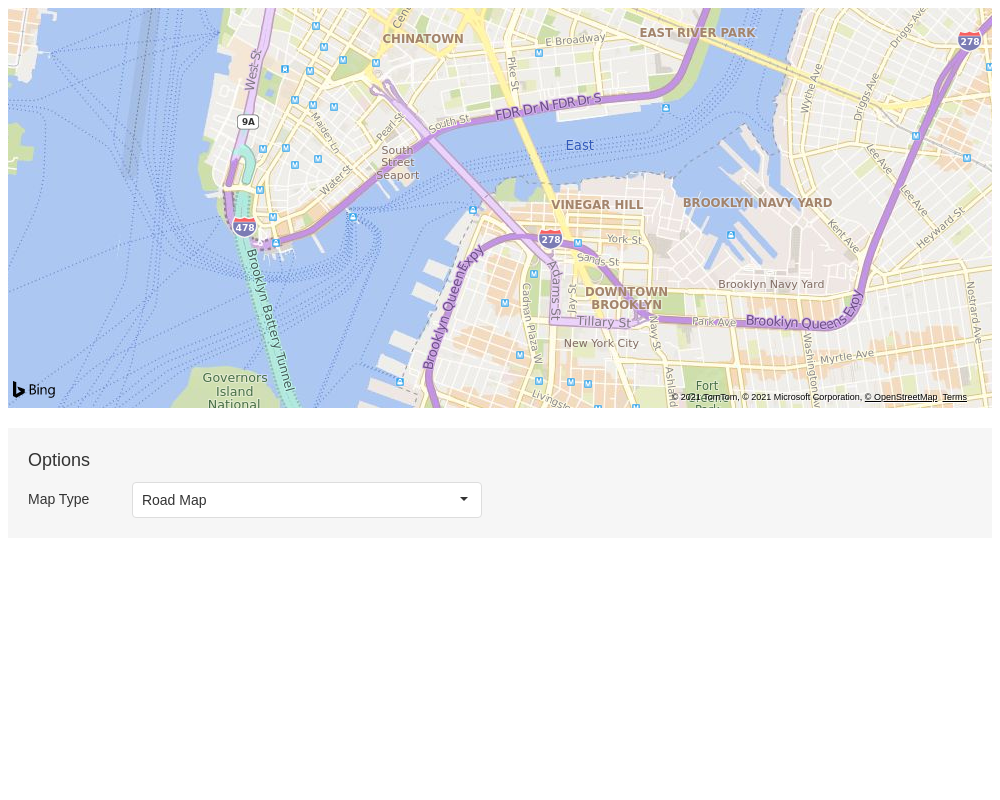
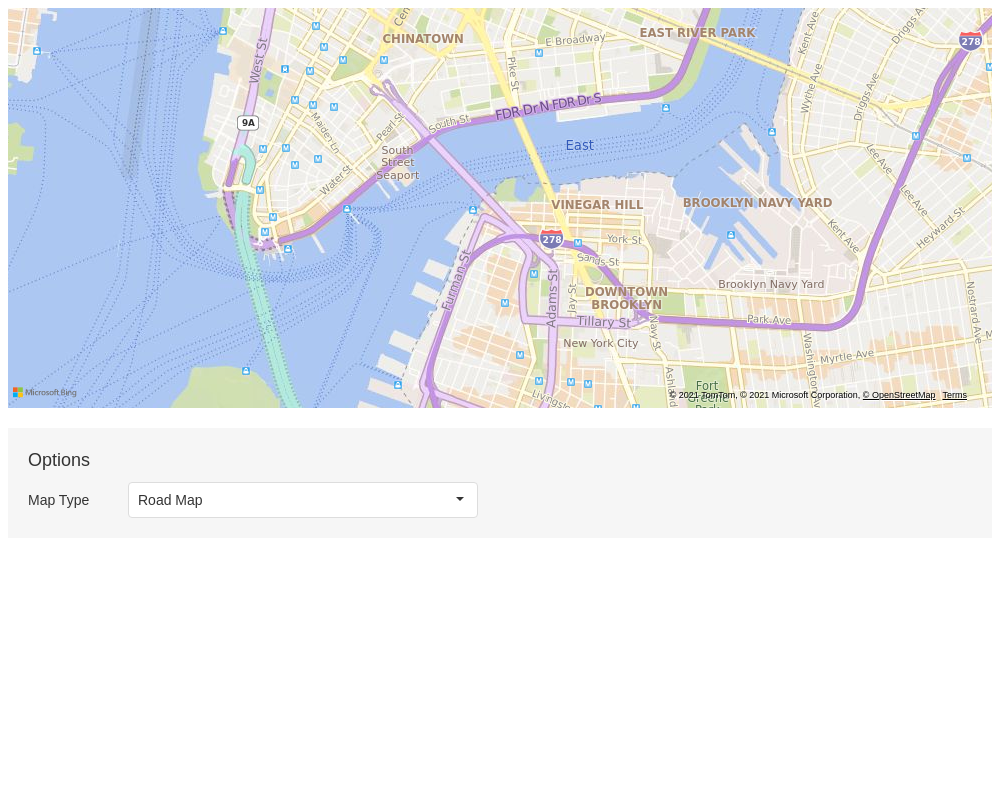
add flex container (#1502)

diff --git a/JSDemos/Demos/Map/ProvidersAndTypes/React/App.js b/JSDemos/Demos/Map/ProvidersAndTypes/React/App.js
@@ -41,7 +41,7 @@ class App extends React.Component {
         <div className="options">
           <div className="caption">Options</div>
           <div className="option">
-            <span>Map Type</span>&nbsp;
+            <span>Map Type</span>
             <SelectBox
               value={this.state.mapTypeValue}
               onValueChanged={this.onMapTypeChanged}

diff --git a/JSDemos/Demos/Map/ProvidersAndTypes/Vue/App.vue b/JSDemos/Demos/Map/ProvidersAndTypes/Vue/App.vue
@@ -62,11 +62,13 @@ export default {
 
 .option {
   margin-top: 10px;
+  display: flex;
+  align-items: center;
 }
 
 .option > span {
   display: inline-block;
-  width: 104px;
+  width: 100px;
 }
 
 .option > .dx-selectbox {

diff --git a/JSDemos/Demos/Map/ProvidersAndTypes/Angular/app/app.component.css b/JSDemos/Demos/Map/ProvidersAndTypes/Angular/app/app.component.css
@@ -11,6 +11,8 @@
 
 ::ng-deep .option {
   margin-top: 10px;
+  display: flex;
+  align-items: center;
 }
 
 ::ng-deep .option > span {

diff --git a/MVCDemos/Content/DemosStyles/Map/ProvidersAndTypes.css b/MVCDemos/Content/DemosStyles/Map/ProvidersAndTypes.css
@@ -11,6 +11,8 @@
 
 .option {
     margin-top: 10px;
+    display: flex;
+    align-items: center;
 }
 
 .option > span {

diff --git a/NetCoreDemos/wwwroot/css/DemosStyles/Map/ProvidersAndTypes.css b/NetCoreDemos/wwwroot/css/DemosStyles/Map/ProvidersAndTypes.css
@@ -11,6 +11,8 @@
 
 .option {
     margin-top: 10px;
+    display: flex;
+    align-items: center;
 }
 
 .option > span {

diff --git a/JSDemos/Demos/Map/ProvidersAndTypes/AngularJS/styles.css b/JSDemos/Demos/Map/ProvidersAndTypes/AngularJS/styles.css
@@ -11,6 +11,8 @@
 
 .option {
   margin-top: 10px;
+  display: flex;
+  align-items: center;
 }
 
 .option > span {

diff --git a/JSDemos/Demos/Map/ProvidersAndTypes/Knockout/styles.css b/JSDemos/Demos/Map/ProvidersAndTypes/Knockout/styles.css
@@ -11,6 +11,8 @@
 
 .option {
   margin-top: 10px;
+  display: flex;
+  align-items: center;
 }
 
 .option > span {

diff --git a/JSDemos/Demos/Map/ProvidersAndTypes/React/styles.css b/JSDemos/Demos/Map/ProvidersAndTypes/React/styles.css
@@ -11,6 +11,8 @@
 
 .option {
   margin-top: 10px;
+  display: flex;
+  align-items: center;
 }
 
 .option > span {

diff --git a/JSDemos/Demos/Map/ProvidersAndTypes/jQuery/styles.css b/JSDemos/Demos/Map/ProvidersAndTypes/jQuery/styles.css
@@ -11,6 +11,8 @@
 
 .option {
   margin-top: 10px;
+  display: flex;
+  align-items: center;
 }
 
 .option > span {
